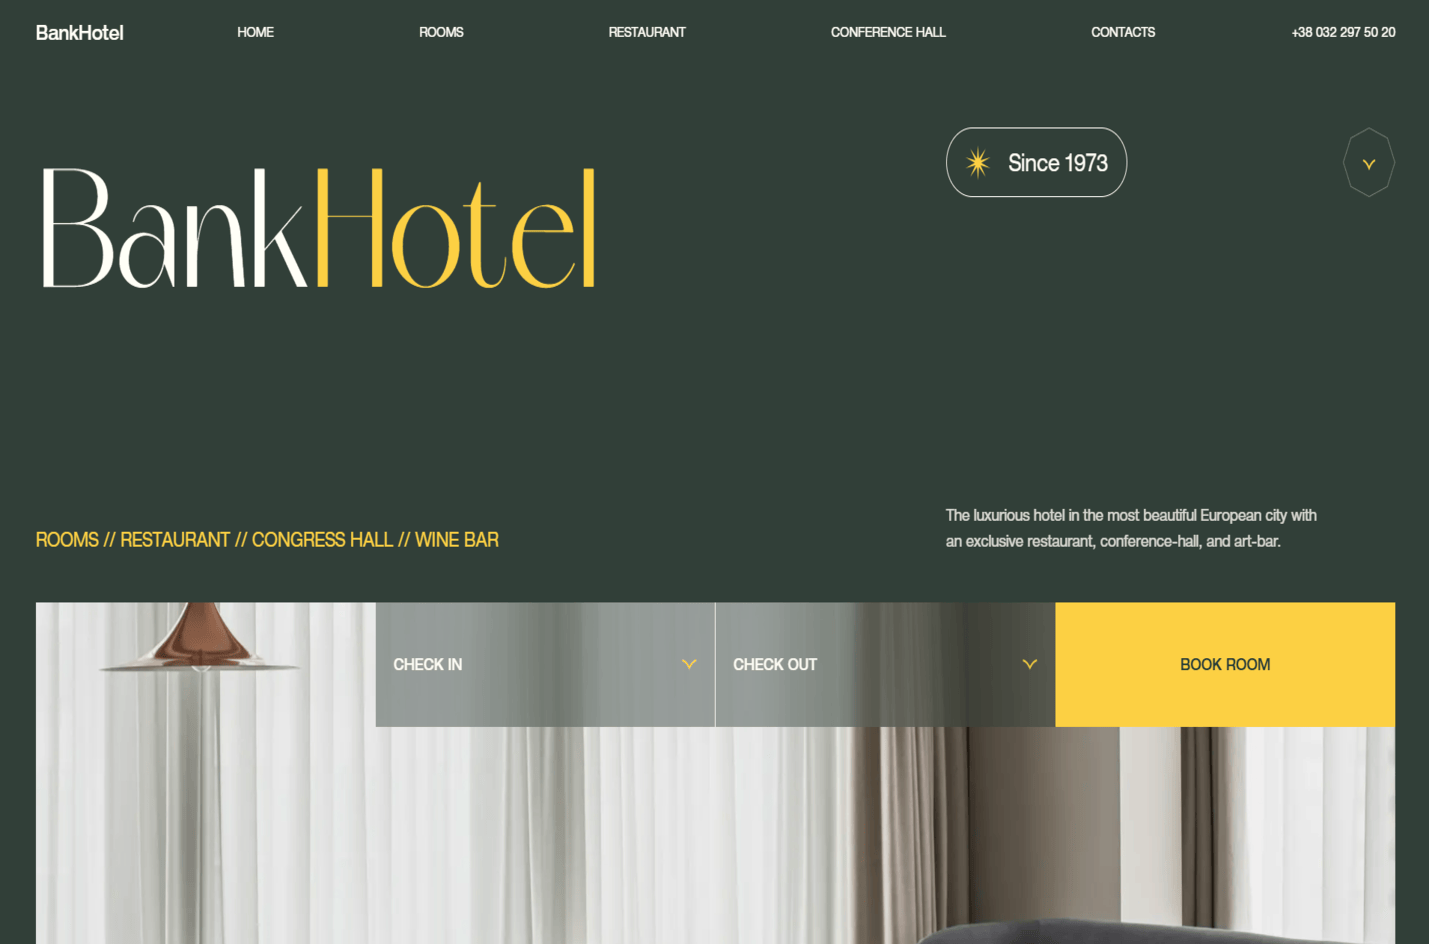
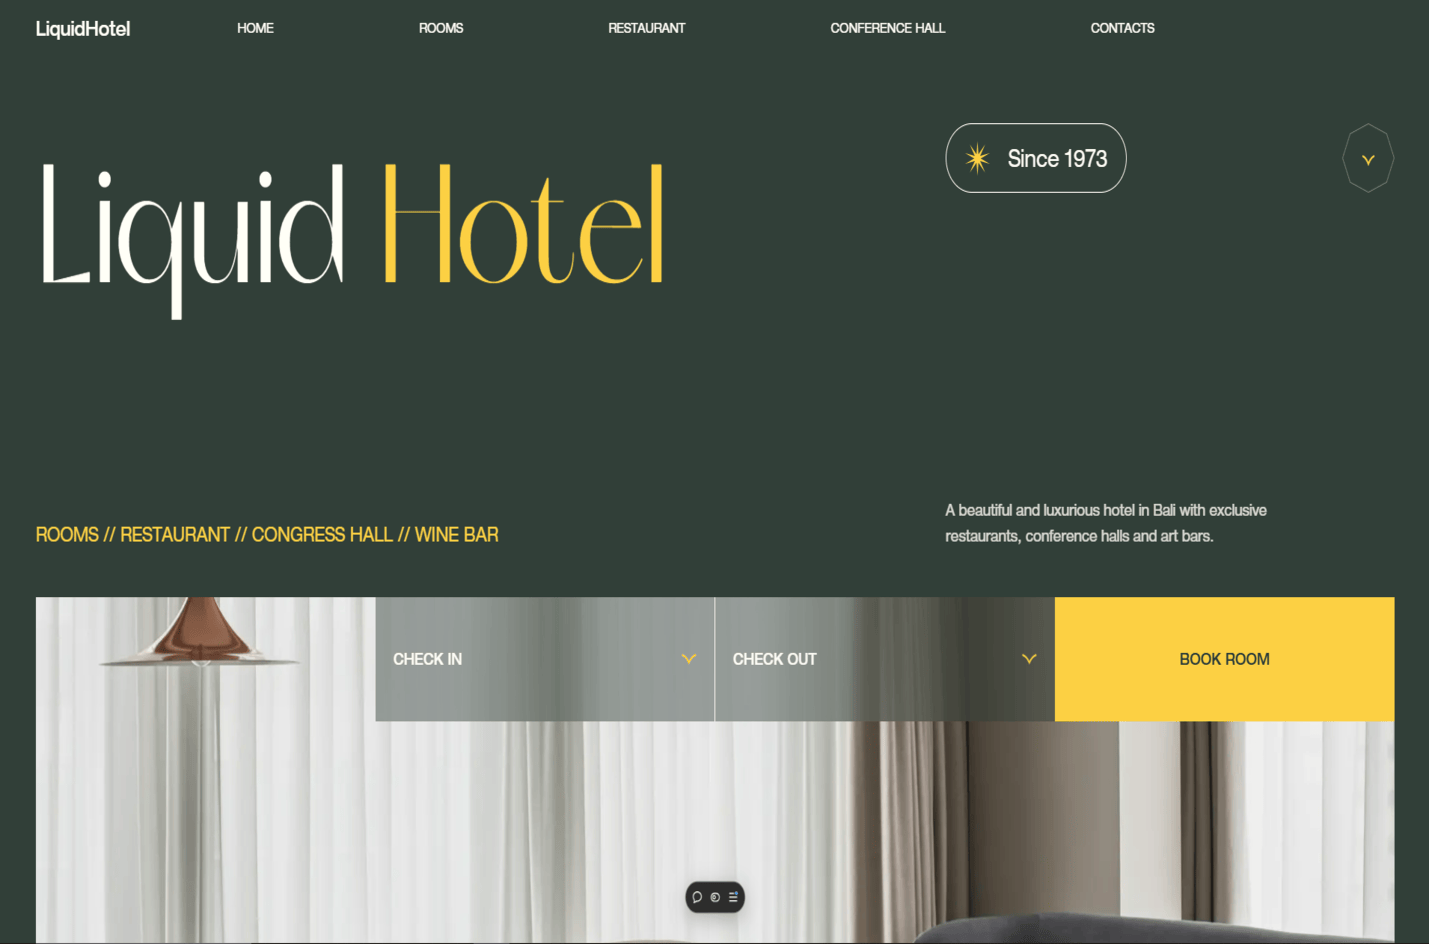
section

diff --git a/src/constants/example.ts b/src/constants/example.ts
@@ -4,6 +4,7 @@ import {
     SiHtml5,
     SiJavascript,
     SiNextdotjs,
+    SiShadcnui,
     SiStyledcomponents,
     SiTailwindcss,
     SiTypescript,
@@ -51,6 +52,11 @@ export const EXAMPLE: Array<Project> = [
                 title: 'TailwindCSS',
                 class: 'fill-blue-400',
             },
+            {
+                SvgIcon: SiShadcnui,
+                title: 'ShadcnUI',
+                class: 'fill-white',
+            },
         ],
     },
     {
@@ -78,10 +84,10 @@ export const EXAMPLE: Array<Project> = [
         ],
     },
     {
-        title: 'Bank Hotel',
+        title: 'Liquid Hotel',
         description:
             'A project to test styling capabilities while maintaining responsiveness',
-        urlDirect: 'https://temmy-bank-hotel.vercel.app/',
+        urlDirect: 'https://liquid-hotel.vercel.app/',
         srcImage: '/project8.png',
         icons: [
             {

diff --git a/src/app/example/page.tsx b/src/app/example/page.tsx
@@ -16,6 +16,10 @@ import { TbEye, TbStack2, TbWorldShare } from 'react-icons/tb';
 
 /* eslint-disable @next/next/no-img-element */
 
+/* eslint-disable @next/next/no-img-element */
+
+/* eslint-disable @next/next/no-img-element */
+
 const Example = () => {
     return (
         <>

diff --git a/src/components/ui/hover-border-gradient.tsx b/src/components/ui/hover-border-gradient.tsx
@@ -7,6 +7,8 @@ import React, { useEffect, useRef, useState } from 'react';
 
 /* eslint-disable react-hooks/exhaustive-deps */
 
+/* eslint-disable react-hooks/exhaustive-deps */
+
 type Direction = 'TOP' | 'LEFT' | 'BOTTOM' | 'RIGHT';
 
 export function HoverBorderGradient({

diff --git a/src/components/ui/text-generate-effect.tsx b/src/components/ui/text-generate-effect.tsx
@@ -7,6 +7,8 @@ import { useEffect } from 'react';
 
 /* eslint-disable react-hooks/exhaustive-deps */
 
+/* eslint-disable react-hooks/exhaustive-deps */
+
 export const TextGenerateEffect = ({
     words,
     className,

diff --git a/src/components/ui/stars-background.tsx b/src/components/ui/stars-background.tsx
@@ -12,6 +12,8 @@ import React, {
 
 /* eslint-disable react-hooks/exhaustive-deps */
 
+/* eslint-disable react-hooks/exhaustive-deps */
+
 interface StarProps {
     x: number;
     y: number;
